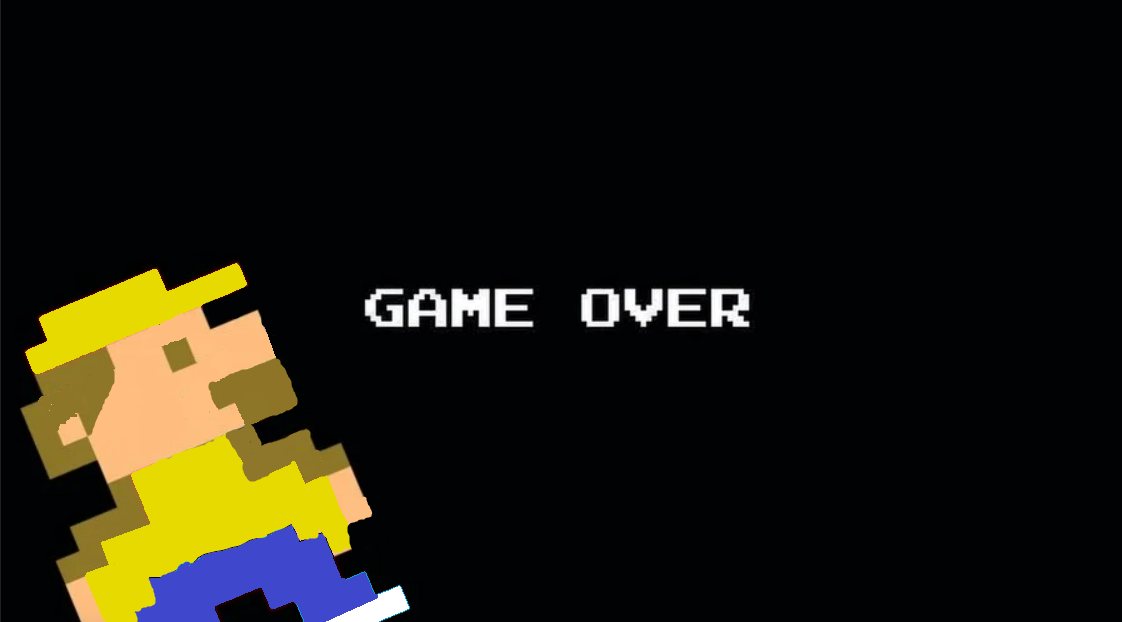
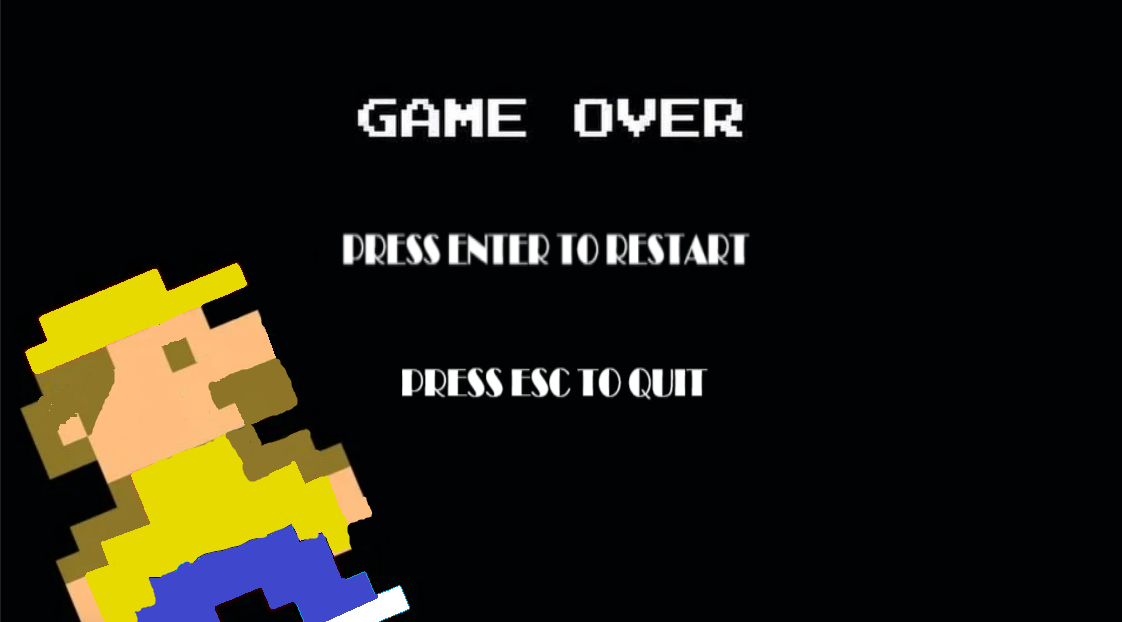
changed gameover screen and oblig4 txt

diff --git a/doc/oblig4.md b/doc/oblig4.md
@@ -175,7 +175,7 @@ Eksempel 5:
   * About meny (ny), Skal vise info om spillet (ikke skret enda).
   * Help meny (ny), viser info om hvordan man spiller spillet.
 
-## Releas-versjon (Gjeldende versjon)
+## Release-versjon (Gjeldende versjon)
 * Spill figur:
   * Endret hastigheten på spill figuren.
   * Endre høyden figuren hopper.
@@ -183,8 +183,8 @@ Eksempel 5:
 * Musikk: 
   * Brick, musikk når brick blir ødelagt av stor spill figur.
   * Coin, musikk når spill figur kolliderer med coin blokk.
-  * Pessi, musikk når spill figur kolliderer med pessi blokk.
-  * Figur, musikk når spill figur plukker opp pessi boks.
+  * Pessi, musikk når spill figur pluker opp pessi blokk.
+  * Figur, musikk når spill figur blir megamarius fra en pessi boks.
 * Maps: 
   * Level 1, map som er "easy" vansklighets grad.
   * Level 2 (modifisert for å gjøre lettere), map som er "medium" vanskelighets grad.
@@ -193,11 +193,11 @@ Eksempel 5:
   * Endret design for normal og stor spill figur.
   * Endret design av noen blokker som blir brukt på mappet.
   * Fjernet sprites som ikke brukes lenger. 
-  Oppdatert med nytt design på noen av blokkene.
+  * Oppdatert med nytt design på noen av blokkene.
 * Fil stuktur: Restukturert ved å bruke Model, View og Controller.
 * Tester: 
   * Vi har laget mye tester som er automatiserte og kjører på gitlab i pipelinen (71% coeverage)
-  * Tester både enkle men også 
+  * Tester både enkle men også avanserte metoder.
 * Menyer: 
   * Start Meny (Modifisert bilde), fremside bilde der man kan trykke på about, help og start game knappene.
   * Help meny (Modifisert tekst), tekst som forklarer hvordan man spiller spillet.
@@ -214,11 +214,11 @@ Eksempel 5:
 * Hit box rar på enemies, spesielt når man er stor
 * Faller man fra en stor høyde ned på enemies kan også skade selv om man treffer hodet. 
 * Mens man går fra liten marius til stor marius ser det ut som man kan dobbel jumpe mid animation
-* Spillet krasjer når en tar en coin, en dreper en spider, tar en pepsi og så før pepsien er i bakken tar en coin. 
-  Får da Java Runtime Enviroment feil. (Muligens CoinAnimation feil)
+* 1 av 100 games så krasjer spillet.
+
 
 ## Kode
-- Vi har laget en "structure.txt" fil som viser strukturern til prosjektet, og vi har ogås laget et "klassediagram.?" som ligger vedlagt i root mappen.
+- Vi har laget en "structure.txt" fil som viser strukturern til prosjektet, og vi har ogås laget et "klassediagram".
 - Vi har fått laget automatiserte tester som viser coverage, den viser rett over 75%. Tester kan kjøres manuelt i IDE-en eller man kan bruke "mvn test" commandoen i terminalen etter man har "bygget" prosjektet med "mvn compile".
 
 ## Dette har vi fikset siden sist:
